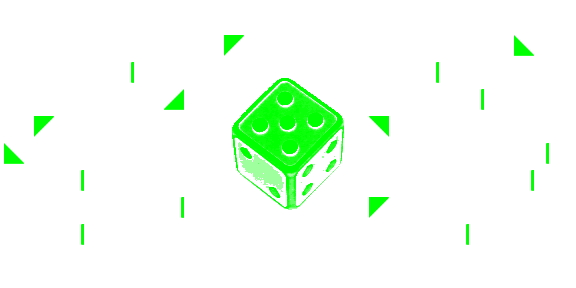
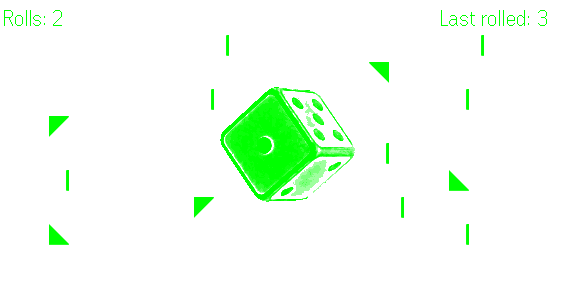
Bug fixes and asset updates

diff --git a/src/rollField.ts b/src/rollField.ts
@@ -1,12 +1,13 @@
 // Dice-roll motion field: a persistent set of debris particles that stream
-// DOWNWARD past the die — the die reads as traveling forward — then slow with
-// it and freeze when it stops. Corner glyphs step through their orientations
-// clockwise on every moving update so each one appears to spin as it falls;
-// at speed, non-corner debris blurs into ▕ streaks and resolves back into
-// shapes as the field slows. The ambient rain lives in drizzle.ts; both render
+// DOWNWARD past the die — the die reads as traveling forward — until it lands.
+// On landing the streaks resolve into shapes in place and the field flips to a
+// burst radiating away from the die, like debris kicked out on impact. Corner
+// glyphs step through their orientations clockwise on every moving update so
+// each one appears to spin. The ambient rain lives in drizzle.ts; both render
 // on the shared charGrid.
 
 import {
+  CELL_W,
   COLS,
   ROWS,
   COIN_ROW_TOP,
@@ -39,10 +40,33 @@ interface RollParticle {
   spin: number
 }
 
+// When the die lands (velocity drops below the streak threshold) the stream
+// converts into a burst: every visible particle keeps its position but its
+// motion flips from "falling past the die" to "radiating away from it" —
+// debris kicked outward on impact. Positions and directions live in pixel
+// space so the spread reads as circular despite the grid's tall cells
+// (16px wide, 27px high).
+interface BurstParticle {
+  x: number
+  y: number
+  kind: 'corner' | 'gem'
+  glyph: string
+  spin: number
+  /** Unit direction away from the die center, in pixel space. */
+  ux: number
+  uy: number
+}
+
+const ROW_PX = 27
+/** Outward travel in pixels per velocity unit per update. */
+const BURST_STEP_PX = 20
+
 export interface RollFieldState {
   particles: RollParticle[]
   offset: number
   spinTick: number
+  /** Non-null once the field has converted to the landing burst. */
+  burst: BurstParticle[] | null
 }
 
 // Scratch row buffers reused across frames: this renders on every tumble frame
@@ -85,41 +109,99 @@ export function makeRollField(seed: number): RollFieldState {
       }
     }
   }
-  return { particles, offset: 0, spinTick: 0 }
+  return { particles, offset: 0, spinTick: 0, burst: null }
 }
 
-/**
- * Advance the field by `velocity` rows (0 = frozen: nothing moves and the
- * corners stop spinning) and render it. Mutates state.
- */
-export function makeRollFieldFrame(
-  state: RollFieldState,
-  velocity: number,
-): string {
-  state.offset += velocity
-  if (velocity > 0) state.spinTick += 1
-
+// Convert the stream's currently visible particles into burst particles at
+// their on-screen positions, aimed away from the die center.
+function captureBurst(state: RollFieldState): BurstParticle[] {
+  const cx = ((COIN_COL_LEFT + COIN_COL_RIGHT + 1) / 2) * CELL_W
+  const cy = ((COIN_ROW_TOP + COIN_ROW_BOT + 1) / 2) * ROW_PX
   const visRows = ROWS - 1
-  const cellsByRow = scratchRows
-  for (const m of cellsByRow) m.clear()
+  const burst: BurstParticle[] = []
   for (const p of state.particles) {
     const m =
       (((p.row + state.offset) % FIELD_PERIOD) + FIELD_PERIOD) % FIELD_PERIOD
     if (m >= visRows) continue
     const r = 1 + m
-    // The die occludes debris passing behind it.
-    const isCoinBand = r >= COIN_ROW_TOP && r <= COIN_ROW_BOT
-    if (isCoinBand && p.col >= COIN_COL_LEFT && p.col <= COIN_COL_RIGHT) continue
+    const x = p.col * CELL_W + CELL_W / 2
+    const y = r * ROW_PX + ROW_PX / 2
+    const dx = x - cx
+    const dy = y - cy
+    const len = Math.hypot(dx, dy)
+    burst.push({
+      x,
+      y,
+      kind: p.kind,
+      glyph: p.glyph,
+      spin: p.spin,
+      // A particle dead-center (fully occluded anyway) defaults to rightward.
+      ux: len > 0 ? dx / len : 1,
+      uy: len > 0 ? dy / len : 0,
+    })
+  }
+  return burst
+}
 
-    let glyph: string
-    if (p.kind === 'corner') {
-      glyph = SPIN_CW[(p.spin + state.spinTick) % SPIN_CW.length]
-    } else if (velocity >= BLUR_VELOCITY) {
-      glyph = STREAK
-    } else {
-      glyph = p.glyph
+/**
+ * Advance the field by `velocity` (0 = frozen: nothing moves and the corners
+ * stop spinning) and render it. Mutates state. At streak velocity the field
+ * streams downward past the die; once velocity drops below the threshold it
+ * converts to the landing burst and radiates outward instead.
+ */
+export function makeRollFieldFrame(
+  state: RollFieldState,
+  velocity: number,
+): string {
+  if (velocity > 0) state.spinTick += 1
+  const streaming = velocity >= BLUR_VELOCITY
+
+  const cellsByRow = scratchRows
+  for (const m of cellsByRow) m.clear()
+
+  if (streaming) {
+    state.burst = null
+    state.offset += velocity
+    const visRows = ROWS - 1
+    for (const p of state.particles) {
+      const m =
+        (((p.row + state.offset) % FIELD_PERIOD) + FIELD_PERIOD) % FIELD_PERIOD
+      if (m >= visRows) continue
+      const r = 1 + m
+      // The die occludes debris passing behind it.
+      const isCoinBand = r >= COIN_ROW_TOP && r <= COIN_ROW_BOT
+      if (isCoinBand && p.col >= COIN_COL_LEFT && p.col <= COIN_COL_RIGHT) {
+        continue
+      }
+      const glyph =
+        p.kind === 'corner'
+          ? SPIN_CW[(p.spin + state.spinTick) % SPIN_CW.length]
+          : STREAK
+      cellsByRow[r].set(p.col, glyph)
     }
-    cellsByRow[r].set(p.col, glyph)
+  } else {
+    if (!state.burst) {
+      // Conversion frame: shapes appear in place; they radiate on the next
+      // update so the resolve and the scatter read as two beats.
+      state.burst = captureBurst(state)
+    } else if (velocity > 0) {
+      for (const p of state.burst) {
+        p.x += p.ux * BURST_STEP_PX * velocity
+        p.y += p.uy * BURST_STEP_PX * velocity
+      }
+    }
+    for (const p of state.burst) {
+      const c = Math.floor(p.x / CELL_W)
+      const r = Math.floor(p.y / ROW_PX)
+      if (c < 0 || c >= COLS || r < 1 || r >= ROWS) continue
+      const isCoinBand = r >= COIN_ROW_TOP && r <= COIN_ROW_BOT
+      if (isCoinBand && c >= COIN_COL_LEFT && c <= COIN_COL_RIGHT) continue
+      const glyph =
+        p.kind === 'corner'
+          ? SPIN_CW[(p.spin + state.spinTick) % SPIN_CW.length]
+          : p.glyph
+      cellsByRow[r].set(c, glyph)
+    }
   }
 
   const lines: string[] = []

diff --git a/src/roll.ts b/src/roll.ts
@@ -19,11 +19,11 @@ export const ROLL_IDLE_STATUS = centerText(
 // die (longer frame holds, lower field velocity). The iso tumble frames all
 // run at streak velocity (≥2), so the field shows motion lines the whole time
 // the die is airborne. The settle frame — the result face tilted 45° — drops
-// to velocity 1: the streaks resolve into shapes the moment it appears, and a
-// few extra field pulses keep the shapes drifting through its hold instead of
-// freezing a frame early. The landing frame (face flat) goes straight to the
-// ambient 'landed' dots — same shape as the coin flip, whose drizzle animates
-// only in lockstep with animation frames and ends on the landing frame.
+// to velocity 1: the streaks resolve into shapes the moment it appears, and
+// the extra field pulses radiate them outward from the die — an impact burst —
+// through its hold. The field then holds those shapes until the landing
+// frame (face flat) is on screen; only after that final image lands does the
+// ambient 'landed' dot drizzle take over.
 const HOLDS = [110, 150, 210]
 /** Field velocity (rows per update) per tumble frame, parallel to HOLDS. All
  *  at or above the streak threshold so motion lines persist until the settle. */
@@ -176,11 +176,14 @@ export function createRollController({
       setPhase('motion', SETTLE_VELOCITY)
     }
 
-    // Landing frame: ambient drizzle returns with the result, like the coin.
-    setPhase('landed')
+    // Landing frame: the field stays frozen on its settle shapes while the
+    // status and face writes are on the wire, and only once the face is on
+    // screen does the ambient drizzle return — switching phases any earlier
+    // stamps dots over the field while the settle frame is still showing.
     onResult(value)
     await setStatus(centerText(`↑  ROLLED ${value}  ↑`, STATUS_INNER_W))
     await sendImage(await facePromise)
+    setPhase('landed')
   }
 
   const lifecycle = createSurfaceLifecycle({

diff --git a/src/dice.ts b/src/dice.ts
@@ -9,7 +9,7 @@ export const DIE_FACES = 6
 
 // Bump when the art in public/dice/ or the pose table changes, so stale
 // processed copies in the kv cache are abandoned.
-const DICE_ASSET_VERSION = 'a7'
+const DICE_ASSET_VERSION = 'a8'
 
 // All dice art is authored on a 288×288 canvas; results are transformed at
 // that size, then run through the same downscale/quantize pass as the coin.

diff --git a/README.md b/README.md
@@ -22,11 +22,11 @@ This project is licensed under the MIT License. See [LICENSE](LICENSE).
 
 | Dice (rolling) | Dice |
 |----------------|------|
-| ![Die tumbling over the debris field](assets/dice_rolling_1.png) | ![Rolled six result](assets/dice.png) |
+| ![Die tumbling over the debris field, two face up](assets/dice_rolling_1.png) | ![Rolled six result](assets/dice.png) |
 
 | Dice (rolling) | Dice (rolling) |
 |----------------|----------------|
-| ![Die tumbling, five face up](assets/dice_rolling_2.png) | ![Die tumbling, four face up](assets/dice_rolling_3.png) |
+| ![Die tumbling, one face up](assets/dice_rolling_2.png) | ![Die tumbling, five face up](assets/dice_rolling_3.png) |
 
 | Phone UI |
 |----------|
